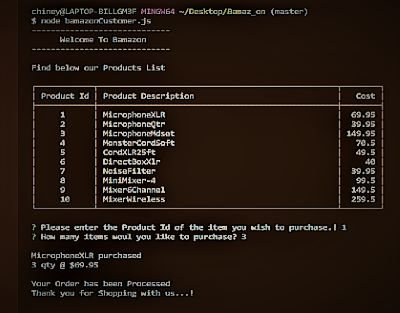
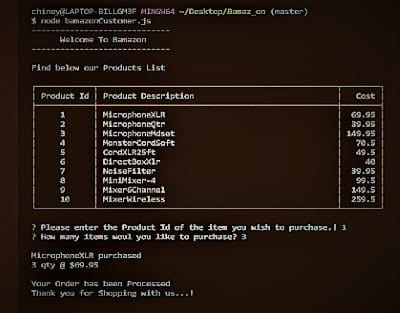
images optimized

diff --git a/portfolio.html b/portfolio.html
@@ -195,7 +195,7 @@
                         </figcaption>
                         <!-- Project Details Ends -->
                         <!-- Main Project Content Starts -->
-                        <img src="./img/projects/navigation/bmz1.JPG" alt="Portolio Image" />
+                        <img src="./img/projects/navigation/bmz.jpg" alt="Portolio Image" />
                         <!-- Main Project Content Ends -->
                     </figure>
                 </li>
@@ -224,7 +224,7 @@
                         </figcaption>
                         <!-- Project Details Ends -->
                         <!-- Main Project Content Starts -->
-                        <img src="./img/projects/navigation/gvb.gif" alt="Portolio Image" />
+                        <img src="./img/projects/navigation/bggr.jpg" alt="Portolio Image" />
                         <!-- Main Project Content Ends -->
                     </figure>
                 </li>
@@ -261,13 +261,13 @@
                             <!-- The slideshow -->
                             <div class="carousel-inner">
                                 <div class="carousel-item active">
-                                    <img src="./img/projects/navigation/hng.gif" alt="Portolio Image" />
+                                    <img src="./img/projects/navigation/btv.jpg" alt="Portolio Image" />
                                 </div>
                                 <div class="carousel-item">
-                                    <img src="./img/projects/navigation/mtm.gif" alt="Portolio Image" />
+                                    <img src="./img/projects/navigation/rkt.jpg" alt="Portolio Image" />
                                 </div>
-                                <div class="carousel-item">
-                                    <img src="./img/projects/navigation/wmt.gif" alt="Portolio Image" />
+                                <div class="carousel-item">wmt.gif
+                                    <img src="./img/projects/navigation/bmz.jpg" alt="Portolio Image" />
                                 </div>
                             </div>
                         </div>
@@ -298,7 +298,7 @@
                         </figcaption>
                        <!-- Project Details Ends -->
                         <!-- Main Project Content Starts -->
-                        <img src="./img/projects/navigation/rps.gif" alt="Portolio Image" />
+                        <img src="./img/projects/navigation/jqi .jpg" alt="Portolio Image" />
                         <!-- Main Project Content Ends -->
                     </figure>
                 </li>
@@ -326,7 +326,7 @@
                         </figcaption>
                         <!-- Project Details Ends -->
                         <!-- Main Project Content Starts -->
-                        <img src="./img/projects/navigation/tcp.gif" alt="Portolio Image" />
+                        <img src="./img/projects/navigation/btv.jpg" alt="Portolio Image" />
                         <!-- Main Project Content Ends -->
                     </figure>
                 </li>
@@ -354,7 +354,7 @@
                         </figcaption>
                         <!-- Project Details Ends -->
                         <!-- Main Project Content Starts -->
-                        <img src="./img/projects/navigation/wgz.gif" alt="Portolio Image" />
+                        <img src="./img/projects/navigation/giphy.gif" alt="Portolio Image" />
                         <!-- Main Project Content Ends -->
                     </figure>
                 </li>
@@ -382,7 +382,7 @@
                         </figcaption>
                         <!-- Project Details Ends -->
                         <!-- Main Project Content Starts -->
-                        <img src="./img/projects/navigation/jq.gif" alt="Portolio Image" />
+                        <img src="./img/projects/navigation/200.webp" alt="Portolio Image" />
                         <!-- Main Project Content Ends -->
                     </figure>
                 </li>
@@ -410,7 +410,7 @@
                         </figcaption>
                         <!-- Project Details Ends -->
                         <!-- Main Project Content Starts -->
-                        <img src="./img/projects/navigation/snjs.gif" alt="Portolio Image" />
+                        <img src="./img/projects/navigation/njs.png" alt="Portolio Image" />
                         <!-- Main Project Content Ends -->
                     </figure>
                 </li>
@@ -438,7 +438,7 @@
                         </figcaption>
                         <!-- Project Details Ends -->
                         <!-- Main Project Content Starts -->
-                        <img src="./img/projects/navigation/ht.gif" alt="Portolio Image" />
+                        <img src="./img/projects/navigation/htrs.jpg" alt="Portolio Image" />
                         <!-- Main Project Content Ends -->
                     </figure>
                 </li>
